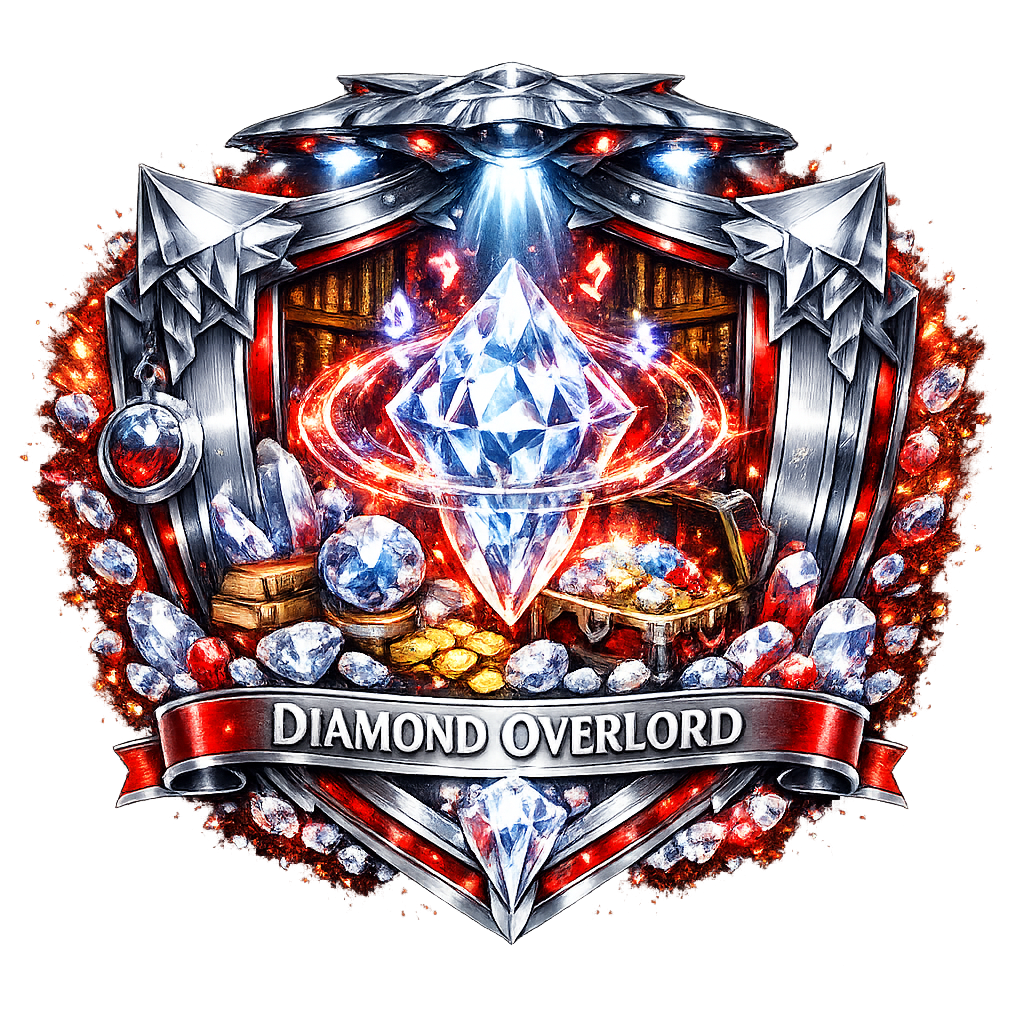
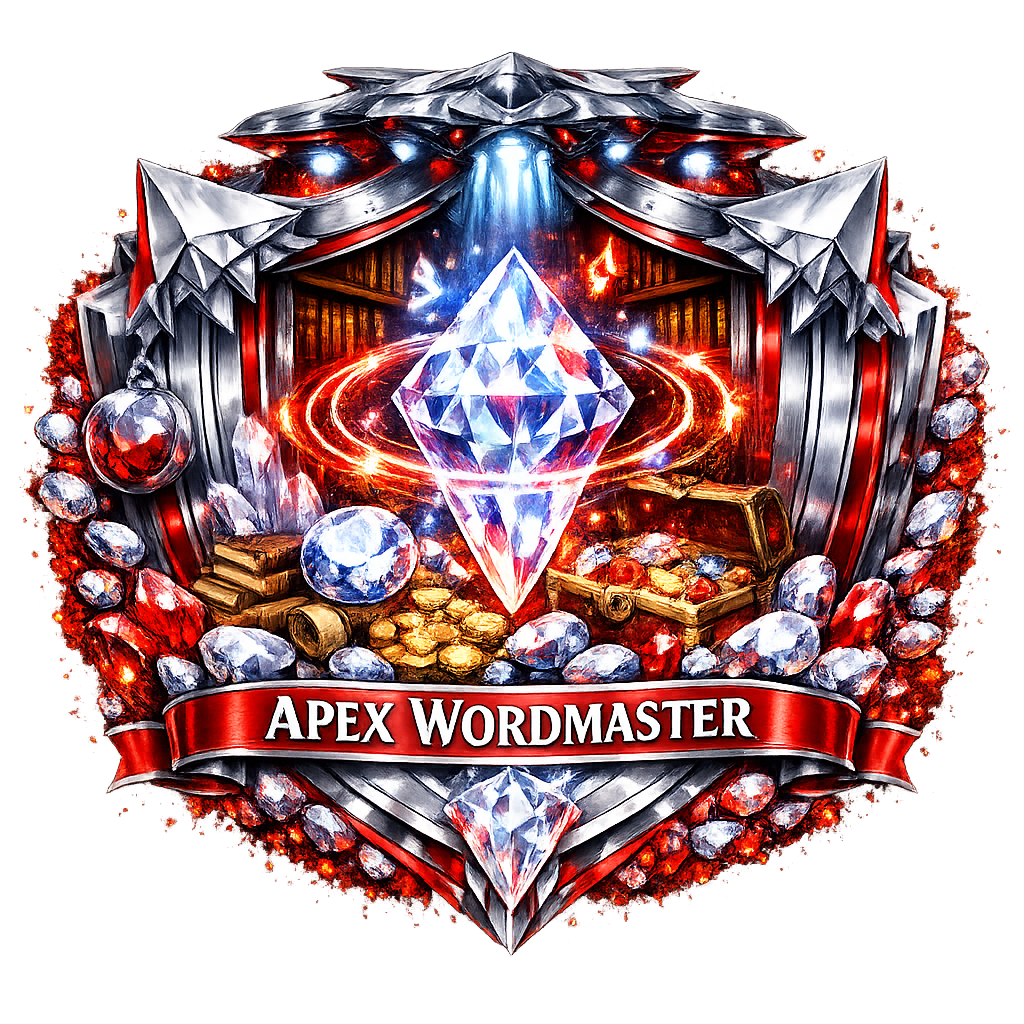
แก้ภาพตราแรงค์ 7 เป็น Apex Wordmaster + บัมพ์ cache v6

diff --git a/sw.js b/sw.js
@@ -6,7 +6,7 @@
    - คำขอข้ามโดเมน (Firebase/Google login/gstatic): ปล่อยผ่าน ไม่ยุ่ง
    อัปเดตเวอร์ชัน: เปลี่ยน CACHE_VERSION แล้ว SW เก่าจะถูกล้างตอน activate
 */
-const CACHE_VERSION = 'pet-vocab-v5';   // v5: อัปเดตภาพตราแรงค์ใหม่ทั้ง 7 (ล้างแคชเก่าให้ผู้เล่นเก่าเห็นตราใหม่)
+const CACHE_VERSION = 'pet-vocab-v6';   // v6: แก้ตราแรงค์ 7 เป็น Apex Wordmaster (เดิมภาพเขียน Diamond Overlord)
 
 /* app shell — โครงหลักที่ต้องมีเพื่อเปิดเกมได้แม้ออฟไลน์ */
 const SHELL = [
